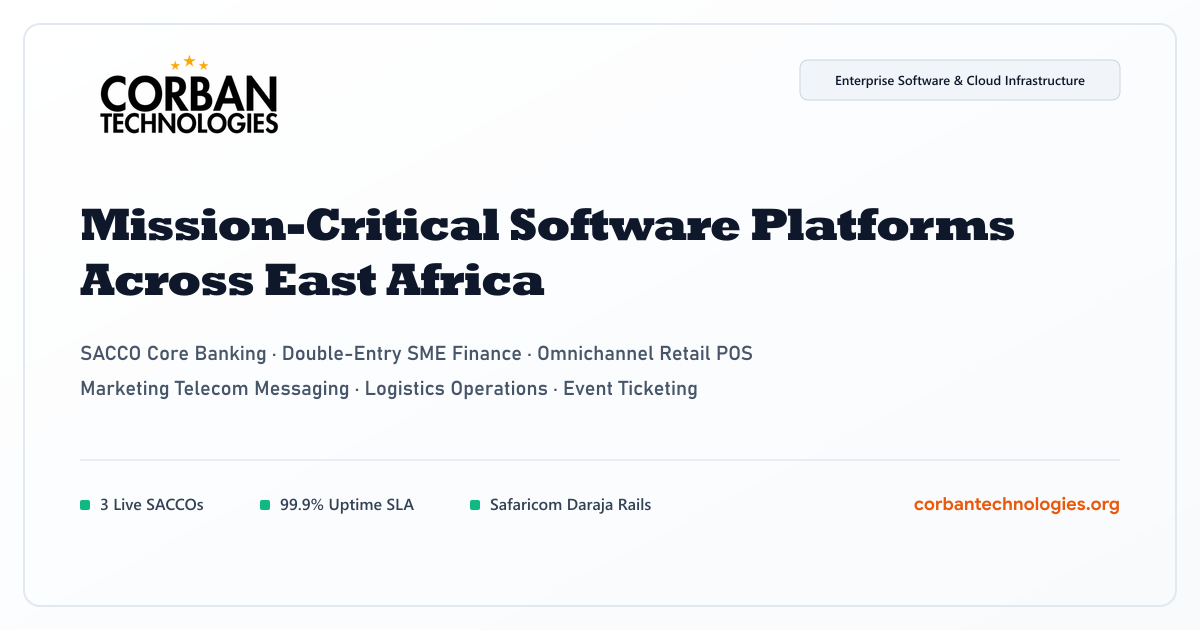
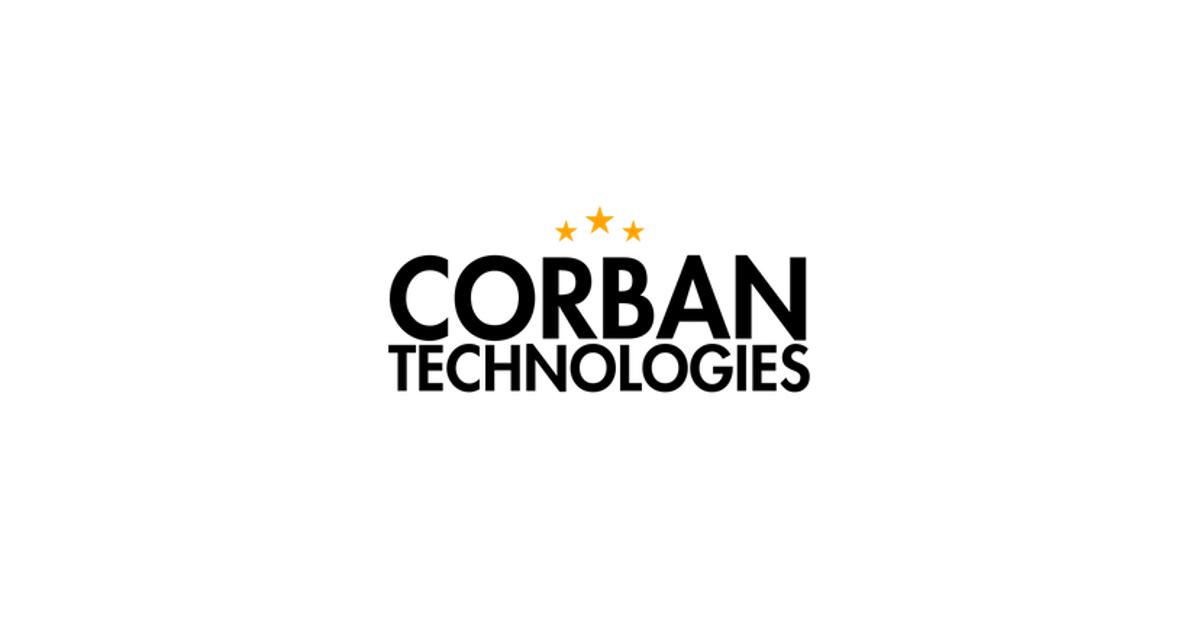
update plan

diff --git a/app/opengraph-image.tsx b/app/opengraph-image.tsx
@@ -3,7 +3,7 @@ import fs from "fs";
 import path from "path";
 
 export const runtime = "nodejs";
-export const alt = "Corban Technologies LTD — Enterprise Software & Cloud Infrastructure";
+export const alt = "Corban Technologies LTD Logo";
 export const size = {
   width: 1200,
   height: 630,
@@ -22,94 +22,17 @@ export default async function Image() {
           height: "100%",
           width: "100%",
           display: "flex",
-          flexDirection: "column",
-          alignItems: "flex-start",
-          justifyContent: "space-between",
+          alignItems: "center",
+          justifyContent: "center",
           backgroundColor: "#ffffff",
-          padding: "60px 80px",
-          fontFamily: "sans-serif",
-          border: "16px solid #f1f5f9",
         }}
       >
-        {/* Top Header with Official Logo & Badge */}
-        <div
-          style={{
-            display: "flex",
-            alignItems: "center",
-            justifyContent: "space-between",
-            width: "100%",
-          }}
-        >
-          {/* eslint-disable-next-line @next/next/no-img-element */}
-          <img
-            src={logoDataUri}
-            alt="Corban Technologies LTD Logo"
-            style={{ width: "220px", height: "auto" }}
-          />
-
-          <div
-            style={{
-              display: "flex",
-              alignItems: "center",
-              padding: "8px 16px",
-              borderRadius: "6px",
-              backgroundColor: "#f8fafc",
-              border: "1px solid #cbd5e1",
-              color: "#0f172a",
-              fontSize: "14px",
-              fontWeight: 600,
-            }}
-          >
-            Enterprise Software &bull; Cloud Infrastructure
-          </div>
-        </div>
-
-        {/* Center Headline */}
-        <div style={{ display: "flex", flexDirection: "column", gap: "12px", maxWidth: "980px" }}>
-          <h1
-            style={{
-              color: "#0f172a",
-              fontSize: "46px",
-              fontWeight: 800,
-              lineHeight: 1.15,
-              letterSpacing: "-1.5px",
-              margin: 0,
-            }}
-          >
-            Mission-Critical Software Platforms Across East Africa
-          </h1>
-          <p
-            style={{
-              color: "#475569",
-              fontSize: "20px",
-              lineHeight: 1.4,
-              margin: 0,
-            }}
-          >
-            SACCO Core Banking &bull; Double-Entry SME Finance &bull; Omnichannel Retail POS &bull; Telecom &amp; Logistics
-          </p>
-        </div>
-
-        {/* Bottom Footer Details */}
-        <div
-          style={{
-            display: "flex",
-            alignItems: "center",
-            justifyContent: "space-between",
-            width: "100%",
-            paddingTop: "24px",
-            borderTop: "1.5px solid #e2e8f0",
-          }}
-        >
-          <div style={{ display: "flex", gap: "24px", color: "#334155", fontSize: "16px", fontWeight: 600 }}>
-            <span>&bull; 3 Live SACCOs</span>
-            <span>&bull; 99.9% Uptime SLA</span>
-            <span>&bull; Safaricom Daraja Rails</span>
-          </div>
-          <div style={{ color: "#ea580c", fontSize: "18px", fontWeight: 700 }}>
-            corbantechnologies.org
-          </div>
-        </div>
+        {/* eslint-disable-next-line @next/next/no-img-element */}
+        <img
+          src={logoDataUri}
+          alt="Corban Technologies LTD Logo"
+          style={{ width: "520px", height: "auto" }}
+        />
       </div>
     ),
     {

diff --git a/app/twitter-image.tsx b/app/twitter-image.tsx
@@ -3,7 +3,7 @@ import fs from "fs";
 import path from "path";
 
 export const runtime = "nodejs";
-export const alt = "Corban Technologies LTD — Enterprise Software & Cloud Infrastructure";
+export const alt = "Corban Technologies LTD Logo";
 export const size = {
   width: 1200,
   height: 630,
@@ -22,94 +22,17 @@ export default async function Image() {
           height: "100%",
           width: "100%",
           display: "flex",
-          flexDirection: "column",
-          alignItems: "flex-start",
-          justifyContent: "space-between",
+          alignItems: "center",
+          justifyContent: "center",
           backgroundColor: "#ffffff",
-          padding: "60px 80px",
-          fontFamily: "sans-serif",
-          border: "16px solid #f1f5f9",
         }}
       >
-        {/* Top Header with Official Logo & Badge */}
-        <div
-          style={{
-            display: "flex",
-            alignItems: "center",
-            justifyContent: "space-between",
-            width: "100%",
-          }}
-        >
-          {/* eslint-disable-next-line @next/next/no-img-element */}
-          <img
-            src={logoDataUri}
-            alt="Corban Technologies LTD Logo"
-            style={{ width: "220px", height: "auto" }}
-          />
-
-          <div
-            style={{
-              display: "flex",
-              alignItems: "center",
-              padding: "8px 16px",
-              borderRadius: "6px",
-              backgroundColor: "#f8fafc",
-              border: "1px solid #cbd5e1",
-              color: "#0f172a",
-              fontSize: "14px",
-              fontWeight: 600,
-            }}
-          >
-            Enterprise Software &bull; Cloud Infrastructure
-          </div>
-        </div>
-
-        {/* Center Headline */}
-        <div style={{ display: "flex", flexDirection: "column", gap: "12px", maxWidth: "980px" }}>
-          <h1
-            style={{
-              color: "#0f172a",
-              fontSize: "46px",
-              fontWeight: 800,
-              lineHeight: 1.15,
-              letterSpacing: "-1.5px",
-              margin: 0,
-            }}
-          >
-            Mission-Critical Software Platforms Across East Africa
-          </h1>
-          <p
-            style={{
-              color: "#475569",
-              fontSize: "20px",
-              lineHeight: 1.4,
-              margin: 0,
-            }}
-          >
-            SACCO Core Banking &bull; Double-Entry SME Finance &bull; Omnichannel Retail POS &bull; Telecom &amp; Logistics
-          </p>
-        </div>
-
-        {/* Bottom Footer Details */}
-        <div
-          style={{
-            display: "flex",
-            alignItems: "center",
-            justifyContent: "space-between",
-            width: "100%",
-            paddingTop: "24px",
-            borderTop: "1.5px solid #e2e8f0",
-          }}
-        >
-          <div style={{ display: "flex", gap: "24px", color: "#334155", fontSize: "16px", fontWeight: 600 }}>
-            <span>&bull; 3 Live SACCOs</span>
-            <span>&bull; 99.9% Uptime SLA</span>
-            <span>&bull; Safaricom Daraja Rails</span>
-          </div>
-          <div style={{ color: "#ea580c", fontSize: "18px", fontWeight: 700 }}>
-            corbantechnologies.org
-          </div>
-        </div>
+        {/* eslint-disable-next-line @next/next/no-img-element */}
+        <img
+          src={logoDataUri}
+          alt="Corban Technologies LTD Logo"
+          style={{ width: "520px", height: "auto" }}
+        />
       </div>
     ),
     {
